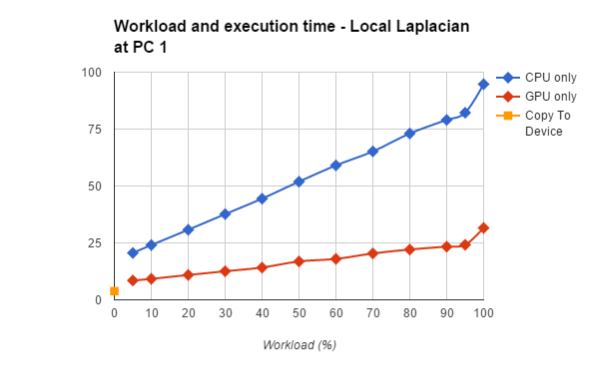
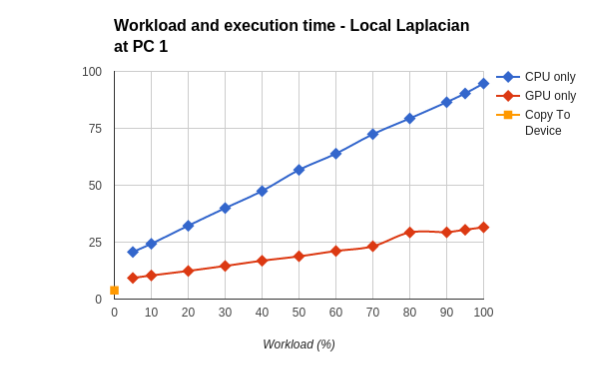
add test input photo

diff --git a/index.html b/index.html
@@ -224,7 +224,7 @@ blur_y.compile_to_file("halide_blur", input);
             <h1>Implementation</h1>
           </section>
           <section>
-            <h3>System Achitecture</h3><img src="photos/Framework-System Architecture.png" height="500px" style="Background:#FFFFFF"/>
+            <h3>System Achitecture</h3><img src="photos/Framework-System Architecture.png" height="600px" style="Background:#FFFFFF"/>
           </section>
           <section><img src="photos/OpenCL Comparison.png"/></section>
           <section>
@@ -327,7 +327,11 @@ for(int j= kernelStartY; j<= kernelEndY; j++)
             </ul>
           </section>
           <section>
-            <h2>The influence of Workload </h2>
+            <h2>The influence of Workload</h2>
+          </section>
+          <section>
+            <h3>Test input</h3>
+            <h4>1536*2560</h4><img src="photos/gray.png" height="500px"/>
           </section>
           <section>
             <h3>Bilateral-Workload between CPU and GPU at Nexus 7</h3><img src="photos/Result-Workload between CPU and GPU(Bilateral@Nexus7).png"/>
@@ -337,6 +341,10 @@ for(int j= kernelStartY; j<= kernelEndY; j++)
           </section>
           <section>
             <h3>Bilateral-Workload between CPU and GPU at PC 2</h3><img src="photos/Result-Workload between CPU and GPU(Bilateral@PC2).png"/>
+          </section>
+          <section>
+            <h3>Test input</h3>
+            <h4>1536*2560</h4><img src="photos/rgb.png" height="500px"/>
           </section>
           <section>
             <h3>Local Laplacian-Workload between CPU and GPU at Nexus 7</h3><img src="photos/Result-Workload between CPU and GPU(LocalLaplacian@Nexus7).png"/>
@@ -382,6 +390,10 @@ for(int j= kernelStartY; j<= kernelEndY; j++)
             <h3>Execution of OpenCL API (Bilateral at PC 2)</h3><img src="photos/ExecutionTimeOfAPI(Bilateal @ PC2).png"/>
           </section>
           <section>
+            <h3>It shows that</h3>
+            <h4>The CPU usage will slow OpenCL API execution time    </h4>
+          </section>
+          <section>
             <h2>Dynamic Dispatch</h2>
           </section>
           <section>
@@ -405,7 +417,7 @@ for(int j= kernelStartY; j<= kernelEndY; j++)
             <h1>Conclusion</h1>
           </section>
           <section>
-            <h3>We create A synergistic framework base on Halide can</h3>
+            <h3>We create a synergistic framework base on Halide can</h3>
             <ul> 
               <li>support PC and Mobile</li>
               <li>support CUDA and OpenCL</li>
@@ -426,7 +438,7 @@ for(int j= kernelStartY; j<= kernelEndY; j++)
             <h2>When processing Local Laplacian Static Dispatch improves</h2>
             <ul>
               <li class="fragment highlight-red"><strong>24%</strong> at Nexus 7</li>
-              <li class="fragment highlight-red"><strong>23%</strong> at PC 1 &nbsp&nbsp&nbsp&nbsp&nbsp</li>
+              <li class="fragment highlight-red"><strong>3%</strong> at PC 1 &nbsp&nbsp&nbsp&nbsp&nbsp</li>
               <li class="fragment highlight-red"><strong>11%</strong> at PC 2 &nbsp&nbsp&nbsp&nbsp&nbsp </li>
             </ul>
           </section>
